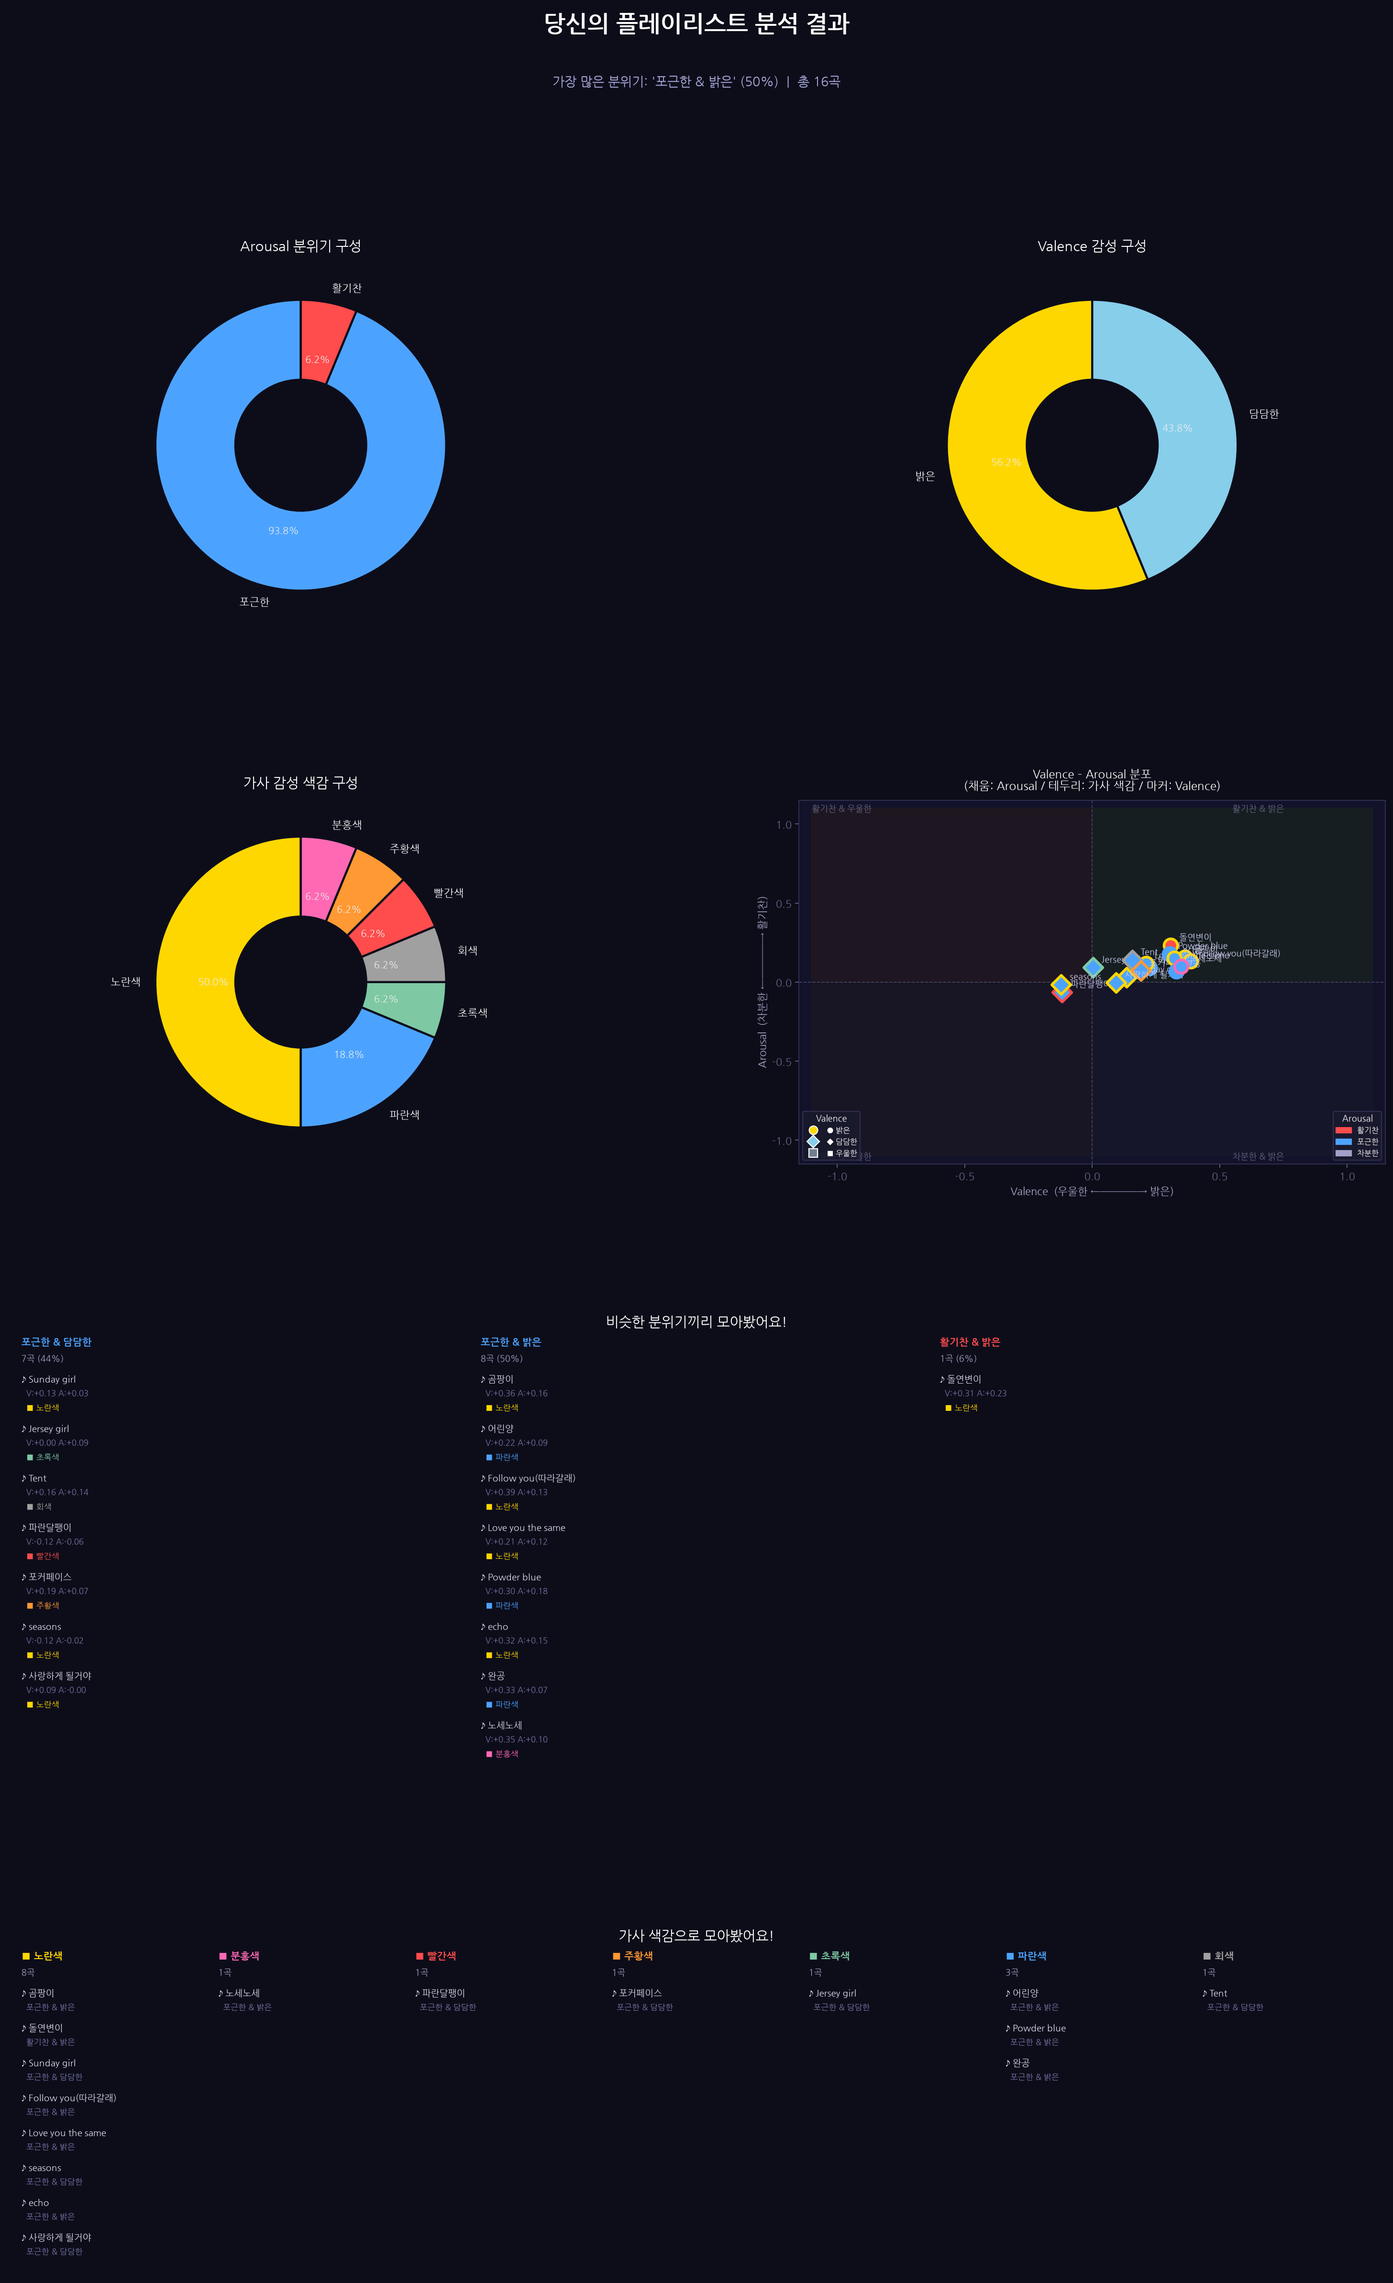
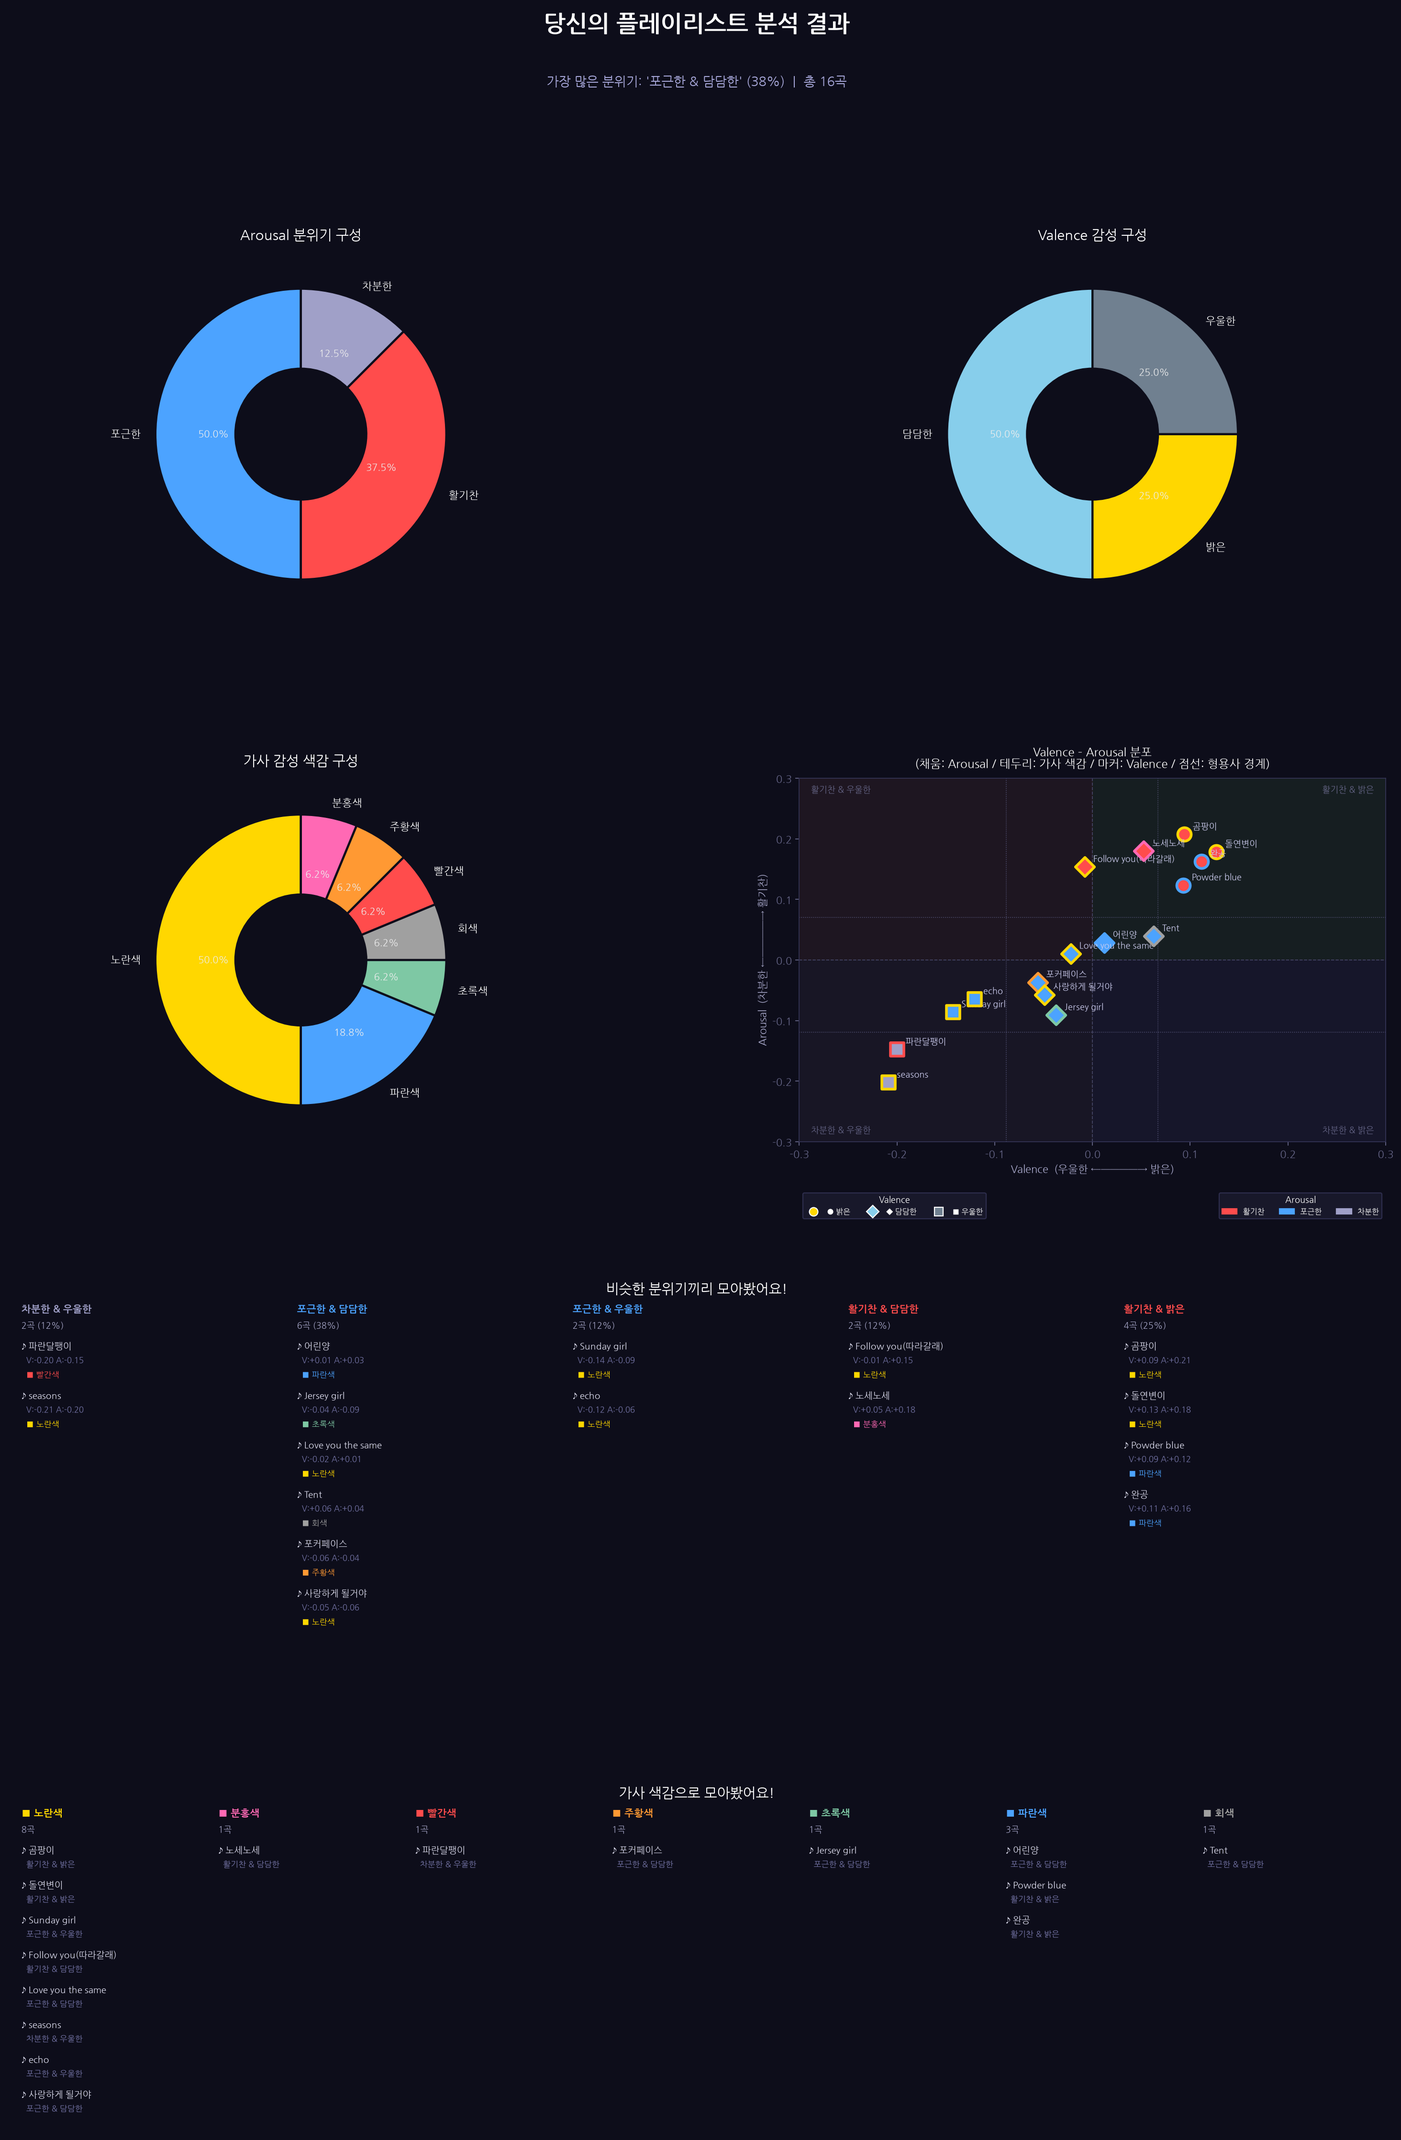
feat(3·6단계): 형용사 임계값을 모델 출력 분포로 보정 (승인 항목)
조사: 모델(R² V 0.38 / A 0.43)이 예측을 평균 쪽으로 압축해서, 원래 ±0.2(=DEAM 4~6) 기준으로는
DEAM 검증(OOF) 예측에서도 Arousal 70%가 '포근한'(라벨은 51%), 실제 '활기찬' 곡의 73%가 '포근한'.
학습 시 OOF 예측을 3등분하는 값을 계산해 models/train_meta.json에 모델과 함께 저장하고
6단계는 이 고정 임계값으로 형용사를 붙임 (플레이리스트와 무관한 절대 기준).
현재 모델: Valence 4.56 / 5.34, Arousal 4.40 / 5.35. LABEL_THRESHOLD_MODE='fixed'면 원본 ±0.2.
결과(16곡, 음량 정규화 포함): Arousal 활기찬 6 / 포근한 8 / 차분한 2 (이전 포근한 15),
Valence 밝은 4 / 담담한 8 / 우울한 4.
시각화: 산점도 축을 데이터 범위로 확대, 형용사 경계 점선 표시, 범례를 그래프 아래로.

diff --git a/src/report.py b/src/report.py
@@ -36,25 +36,45 @@ def to_signed(x: float) -> float:
     return _clamp((x - config.VA_CENTER) / config.VA_HALF_RANGE)
 
 
-def _three_level(score: float, labels: tuple[str, str, str]) -> str:
+def _three_level(score: float, labels: tuple[str, str, str], low: float, high: float) -> str:
     if _is_nan(score):
         return config.FAILED_LABEL
-    t = config.LABEL_THRESHOLD
-    if score > t:
+    if score > high:
         return labels[0]
-    if score > -t:
+    if score > low:
         return labels[1]
     return labels[2]
 
 
-def valence_label(v: float) -> str:
-    """Valence → 밝은/담담한/우울한."""
-    return _three_level(v, config.VALENCE_LABELS)
+def get_thresholds(cfg: config.Config) -> dict[str, tuple[float, float]]:
+    """형용사 임계값 (DEAM 척도, (낮은 경계, 높은 경계)).
+
+    calibrated: models/train_meta.json의 OOF 3등분 값. 없으면 경고 후 fixed.
+    fixed: 원본 ±0.2 → (x-5)/5 기준이라 DEAM 척도로 4.0 / 6.0.
+    """
+    t = config.LABEL_THRESHOLD
+    fixed = {k: (config.VA_CENTER - t * config.VA_HALF_RANGE, config.VA_CENTER + t * config.VA_HALF_RANGE)
+             for k in ("valence", "arousal")}
+    if config.LABEL_THRESHOLD_MODE != "calibrated":
+        return fixed
+    from src.mood_model import load_label_thresholds
+
+    saved = load_label_thresholds(cfg)
+    if not saved:
+        log.warning("보정 임계값이 없습니다(%s). 원본 ±0.2 기준을 씁니다. --steps 3 --retrain으로 다시 학습하세요.",
+                    cfg.model_meta_path)
+        return fixed
+    return {k: (saved[k][0], saved[k][1]) for k in ("valence", "arousal")}
 
 
-def arousal_label(a: float) -> str:
-    """Arousal → 활기찬/포근한/차분한."""
-    return _three_level(a, config.AROUSAL_LABELS)
+def valence_label(v: float, low: float, high: float) -> str:
+    """Valence 예측값(DEAM 척도) → 밝은/담담한/우울한."""
+    return _three_level(v, config.VALENCE_LABELS, low, high)
+
+
+def arousal_label(a: float, low: float, high: float) -> str:
+    """Arousal 예측값(DEAM 척도) → 활기찬/포근한/차분한."""
+    return _three_level(a, config.AROUSAL_LABELS, low, high)
 
 
 def build_final_table(cfg: config.Config) -> pd.DataFrame:
@@ -75,10 +95,12 @@ def build_final_table(cfg: config.Config) -> pd.DataFrame:
         log.warning("%s 없음 → main_color_text 비움", cfg.song_emotion_color_csv)
         df["main_color_text"] = pd.NA
 
-    df["valence_score"] = df["valence_mean_pred"].apply(to_signed)
+    th = get_thresholds(cfg)
+    log.info("형용사 임계값 (%s): Valence %s, Arousal %s", config.LABEL_THRESHOLD_MODE, th["valence"], th["arousal"])
+    df["valence_score"] = df["valence_mean_pred"].apply(to_signed)   # 그래프 좌표 (-1~1)
     df["arousal_score"] = df["arousal_mean_pred"].apply(to_signed)
-    df["valence_label"] = df["valence_score"].apply(valence_label)
-    df["arousal_label"] = df["arousal_score"].apply(arousal_label)
+    df["valence_label"] = [valence_label(v, *th["valence"]) for v in df["valence_mean_pred"]]
+    df["arousal_label"] = [arousal_label(a, *th["arousal"]) for a in df["arousal_mean_pred"]]
     df["va_mood"] = [
         config.FAILED_LABEL if config.FAILED_LABEL in (a, v) else f"{a} & {v}"
         for a, v in zip(df["arousal_label"], df["valence_label"])
@@ -107,16 +129,27 @@ def _donut(ax, counts: pd.Series, palette: dict[str, str], title: str) -> None:
     ax.set_title(title, color="white", fontsize=13, pad=12)
 
 
-def _draw_va_scatter(ax, df: pd.DataFrame) -> None:
+def _draw_va_scatter(ax, df: pd.DataFrame, th: dict[str, tuple[float, float]]) -> None:
     import matplotlib.lines as mlines
     import matplotlib.patches as mpatches
 
     ax.set_facecolor("#12122A")
+    # 축 범위: 절대 척도 예측은 0 근처에 모이므로 데이터·경계선이 다 보이는 만큼만 (최소 ±0.3, 최대 ±1.15)
+    pts = df[["valence_score", "arousal_score"]].abs().to_numpy().ravel()
+    bounds = [abs(to_signed(x)) for k in ("valence", "arousal") for x in th[k]]
+    vals = [v for v in [*pts, *bounds] if not _is_nan(v)]
+    lim = min(1.15, max(0.3, 1.25 * max(vals, default=1.0)))
+
     ax.axhline(0, color="#444466", linewidth=0.8, linestyle="--")
     ax.axvline(0, color="#444466", linewidth=0.8, linestyle="--")
+    # 형용사 경계선 (점선)
+    for v in th["valence"]:
+        ax.axvline(to_signed(v), color="#55557A", linewidth=0.7, linestyle=":")
+    for a in th["arousal"]:
+        ax.axhline(to_signed(a), color="#55557A", linewidth=0.7, linestyle=":")
     for (x0, y0, x1, y1, c) in [
-            (0, 0, 1.1, 1.1, "#1A2A1A"), (-1.1, 0, 0, 1.1, "#2A1A1A"),
-            (0, -1.1, 1.1, 0, "#1A1A2A"), (-1.1, -1.1, 0, 0, "#1E1A22")]:
+            (0, 0, lim, lim, "#1A2A1A"), (-lim, 0, 0, lim, "#2A1A1A"),
+            (0, -lim, lim, 0, "#1A1A2A"), (-lim, -lim, 0, 0, "#1E1A22")]:
         ax.fill([x0, x1, x1, x0], [y0, y0, y1, y1], color=c, alpha=0.5, zorder=0)
 
     for _, row in df.dropna(subset=["valence_score", "arousal_score"]).iterrows():  # 분석 실패 곡은 점 없음
@@ -126,30 +159,33 @@ def _draw_va_scatter(ax, df: pd.DataFrame) -> None:
         ax.annotate(row["title"], (row["valence_score"], row["arousal_score"]),
                     textcoords="offset points", xytext=(8, 5), fontsize=8, color="#CCCCEE")
 
-    ax.set_xlim(-1.15, 1.15)
-    ax.set_ylim(-1.15, 1.15)
+    ax.set_xlim(-lim, lim)
+    ax.set_ylim(-lim, lim)
     ax.set_xlabel("Valence  (우울한 ←————→ 밝은)", color="#AAAACC", fontsize=10)
     ax.set_ylabel("Arousal  (차분한 ←————→ 활기찬)", color="#AAAACC", fontsize=10)
-    ax.set_title("Valence – Arousal 분포\n(채움: Arousal / 테두리: 가사 색감 / 마커: Valence)",
+    ax.set_title("Valence – Arousal 분포\n(채움: Arousal / 테두리: 가사 색감 / 마커: Valence / 점선: 형용사 경계)",
                  color="white", fontsize=11, pad=10)
     ax.tick_params(colors="#666688")
     for spine in ax.spines.values():
         spine.set_edgecolor("#333355")
-    for (x, y, t) in [(0.55, 1.08, "활기찬 & 밝은"), (-1.1, 1.08, "활기찬 & 우울한"),
-                      (0.55, -1.12, "차분한 & 밝은"), (-1.1, -1.12, "차분한 & 우울한")]:
-        ax.text(x, y, t, fontsize=8, color="#666688")
+    for (x, y, t, ha, va) in [(0.98, 0.98, "활기찬 & 밝은", "right", "top"), (0.02, 0.98, "활기찬 & 우울한", "left", "top"),
+                              (0.98, 0.02, "차분한 & 밝은", "right", "bottom"), (0.02, 0.02, "차분한 & 우울한", "left", "bottom")]:
+        ax.text(x, y, t, fontsize=8, color="#666688", ha=ha, va=va, transform=ax.transAxes)
 
     legend_style = dict(fontsize=7, facecolor="#1A1A2E", edgecolor="#333355",
                         labelcolor="white", framealpha=0.85, title_fontsize=8)
     a_patches = [mpatches.Patch(color=c, label=m) for m, c in config.AROUSAL_COLORS.items()]
-    leg1 = ax.legend(handles=a_patches, title="Arousal", loc="lower right", **legend_style)
+    # 범례는 그래프 아래 바깥쪽 (아래 모서리의 '차분한 & ...' 라벨을 가리지 않게)
+    leg1 = ax.legend(handles=a_patches, title="Arousal", loc="upper right", bbox_to_anchor=(1.0, -0.13),
+                     ncol=3, **legend_style)
     leg1.get_title().set_color("white")
 
     v_handles = [mlines.Line2D([0], [0], marker=config.VALENCE_MARKERS[m], color="w",
                                markerfacecolor=config.VALENCE_COLORS[m], markersize=8,
                                label=f"{config.VALENCE_SYMBOLS[m]} {m}", linestyle="None")
                  for m in config.VALENCE_MARKERS]
-    leg2 = ax.legend(handles=v_handles, title="Valence", loc="lower left", **legend_style)
+    leg2 = ax.legend(handles=v_handles, title="Valence", loc="upper left", bbox_to_anchor=(0.0, -0.13),
+                     ncol=3, **legend_style)
     leg2.get_title().set_color("white")
     ax.add_artist(leg1)
 
@@ -222,7 +258,7 @@ def _draw_color_groups(ax, df: pd.DataFrame) -> None:
                     transform=ax.transAxes, va="top")
 
 
-def plot(df: pd.DataFrame, out_path) -> None:
+def plot(df: pd.DataFrame, out_path, th: dict[str, tuple[float, float]]) -> None:
     """분석 결과 대시보드 PNG 저장 (도넛 3개 + VA 산점도 + 그룹 목록 2개)."""
     import matplotlib
     matplotlib.use("Agg")
@@ -271,7 +307,7 @@ def plot(df: pd.DataFrame, out_path) -> None:
     _donut(ax_donut_a, df["arousal_label"].value_counts(), config.AROUSAL_COLORS, "Arousal 분위기 구성")
     _donut(ax_donut_v, df["valence_label"].value_counts(), config.VALENCE_COLORS, "Valence 감성 구성")
     _donut(ax_donut_c, df["main_color_text"].value_counts(), config.LYRICS_COLOR_MAP, "가사 감성 색감 구성")
-    _draw_va_scatter(ax_va, df)
+    _draw_va_scatter(ax_va, df, th)
     _draw_mood_groups(ax_songs, df, total)
     _draw_color_groups(ax_color_group, df)
 
@@ -284,5 +320,5 @@ def run(cfg: config.Config) -> pd.DataFrame:
     """final_result.csv와 playlist_analysis.png를 만든다."""
     df = build_final_table(cfg)
     write_csv(df, cfg.final_csv, log)
-    plot(df, cfg.figure_png)
+    plot(df, cfg.figure_png, get_thresholds(cfg))
     return df

diff --git a/src/mood_model.py b/src/mood_model.py
@@ -96,8 +96,11 @@ def build_model(n_feat: int):
     return m
 
 
-def train(X: np.ndarray, Y: np.ndarray) -> list[FoldModel]:
-    """5-Fold 교차검증으로 Fold별 모델을 학습하고 검증 지표를 기록한다."""
+def train(X: np.ndarray, Y: np.ndarray) -> tuple[list[FoldModel], np.ndarray]:
+    """5-Fold 교차검증으로 Fold별 모델을 학습하고 검증 지표를 기록한다.
+
+    반환: (Fold 모델 목록, 각 곡을 학습에 쓰지 않은 Fold로 예측한 OOF 예측값)
+    """
     import tensorflow as tf
     from sklearn.metrics import mean_absolute_error, r2_score
     from sklearn.model_selection import KFold
@@ -105,6 +108,7 @@ def train(X: np.ndarray, Y: np.ndarray) -> list[FoldModel]:
 
     kf = KFold(n_splits=config.N_FOLDS, shuffle=True, random_state=config.SEED)
     folds: list[FoldModel] = []
+    oof = np.zeros_like(Y, dtype=float)
 
     for fold, (tr, va) in enumerate(kf.split(X), 1):
         sx, sy = StandardScaler(), StandardScaler()
@@ -123,6 +127,7 @@ def train(X: np.ndarray, Y: np.ndarray) -> list[FoldModel]:
 
         Y_va = Y[va]
         pred_va = sy.inverse_transform(model.predict(X_va_s, verbose=0))
+        oof[va] = pred_va
         fm = FoldModel(
             model=model, scaler_x=sx, scaler_y=sy,
             mae=float(mean_absolute_error(Y_va, pred_va)),
@@ -137,7 +142,16 @@ def train(X: np.ndarray, Y: np.ndarray) -> list[FoldModel]:
     log.info("[결과] MAE %.3f±%.3f", np.mean(maes), np.std(maes))
     log.info("[결과] R²(Valence) %.3f", np.mean([f.r2_valence for f in folds]))
     log.info("[결과] R²(Arousal) %.3f", np.mean([f.r2_arousal for f in folds]))
-    return folds
+    return folds, oof
+
+
+def calibrate_thresholds(oof: np.ndarray) -> dict[str, list[float]]:
+    """OOF 예측을 LABEL_QUANTILES로 나누는 값 → 형용사 임계값 (DEAM 척도)."""
+    q = list(config.LABEL_QUANTILES)
+    th = {name: [round(float(v), 4) for v in np.quantile(oof[:, i], q)]
+          for i, name in enumerate(("valence", "arousal"))}
+    log.info("보정 임계값 (DEAM 척도): Valence %s, Arousal %s", th["valence"], th["arousal"])
+    return th
 
 
 def predict(folds: list[FoldModel], features: np.ndarray) -> np.ndarray:
@@ -151,7 +165,8 @@ def predict(folds: list[FoldModel], features: np.ndarray) -> np.ndarray:
     return np.mean(preds, axis=0)
 
 
-def save_models(folds: list[FoldModel], cfg: config.Config) -> None:
+def save_models(folds: list[FoldModel], cfg: config.Config,
+                thresholds: dict[str, list[float]]) -> None:
     """Fold 모델(.keras)·스케일러(joblib)·학습 메타데이터(json)를 models/에 저장한다."""
     import joblib
     import tensorflow as tf
@@ -166,11 +181,20 @@ def save_models(folds: list[FoldModel], cfg: config.Config) -> None:
         "seed": config.SEED,
         "n_folds": len(folds),
         "feat_cols": config.FEAT_COLS,
+        "label_thresholds": thresholds,
+        "label_quantiles": list(config.LABEL_QUANTILES),
         "folds": [{"fold": k, "mae": f.mae, "r2_valence": f.r2_valence, "r2_arousal": f.r2_arousal}
                   for k, f in enumerate(folds, 1)],
     }
     cfg.model_meta_path.write_text(json.dumps(meta, ensure_ascii=False, indent=2), encoding="utf-8")
     log.info("모델 저장: %s", cfg.models_dir)
+
+
+def load_label_thresholds(cfg: config.Config) -> dict[str, list[float]] | None:
+    """저장된 보정 임계값 (없으면 None)."""
+    if not cfg.model_meta_path.exists():
+        return None
+    return json.loads(cfg.model_meta_path.read_text(encoding="utf-8")).get("label_thresholds")
 
 
 def has_saved_models(cfg: config.Config) -> bool:
@@ -229,8 +253,8 @@ def run(cfg: config.Config) -> pd.DataFrame:
     if cfg.retrain or not has_saved_models(cfg):
         set_seeds()
         X, Y = load_training_data(cfg)
-        folds = train(X, Y)
-        save_models(folds, cfg)
+        folds, oof = train(X, Y)
+        save_models(folds, cfg, calibrate_thresholds(oof))
     else:
         folds = load_models(cfg)
     ens = predict(folds, test_features)

diff --git a/config.py b/config.py
@@ -287,9 +287,16 @@ EMOTION_COMBO_TOP_N = 3
 # ─────────────────────────────────────────────
 # 6단계: 형용사 + 시각화
 # ─────────────────────────────────────────────
-VA_CENTER = 5             # (x - 5) / 5 로 -1~1 변환
+VA_CENTER = 5             # (x - 5) / 5 로 -1~1 변환 (그래프 좌표)
 VA_HALF_RANGE = 5
-LABEL_THRESHOLD = 0.2
+# 형용사 임계값
+#   "calibrated" (기본): 학습 시 DEAM 검증(OOF) 예측을 3등분하는 값 (models/train_meta.json에 저장).
+#       모델 예측이 평균 쪽으로 압축되어(R² 0.4 수준) 원래 ±0.2(=4~6) 기준으로는 DEAM에서도 70%가
+#       '포근한'이 됐음 → 모델 출력 분포에 맞춘 고정 임계값. 플레이리스트와 무관한 절대 기준.
+#   "fixed": 원본 규칙, (x-5)/5 > +0.2 / > -0.2
+LABEL_THRESHOLD_MODE = "calibrated"
+LABEL_QUANTILES = (1 / 3, 2 / 3)
+LABEL_THRESHOLD = 0.2     # fixed 모드
 
 FAILED_LABEL = "분석 실패"   # 예측값(음원) 또는 가사 색이 없는 곡
 FAILED_COLOR = "#555566"
